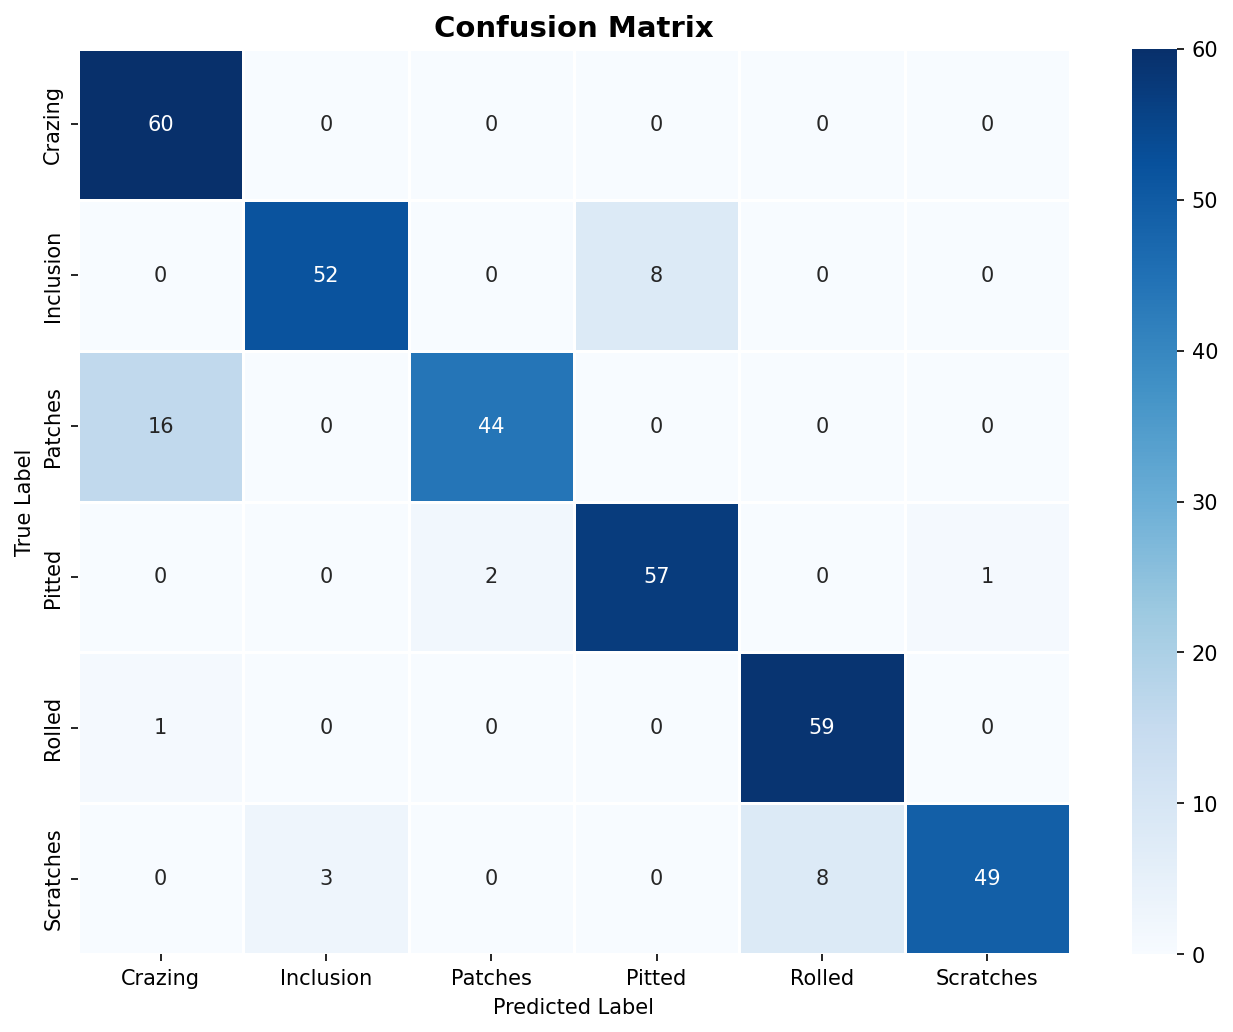
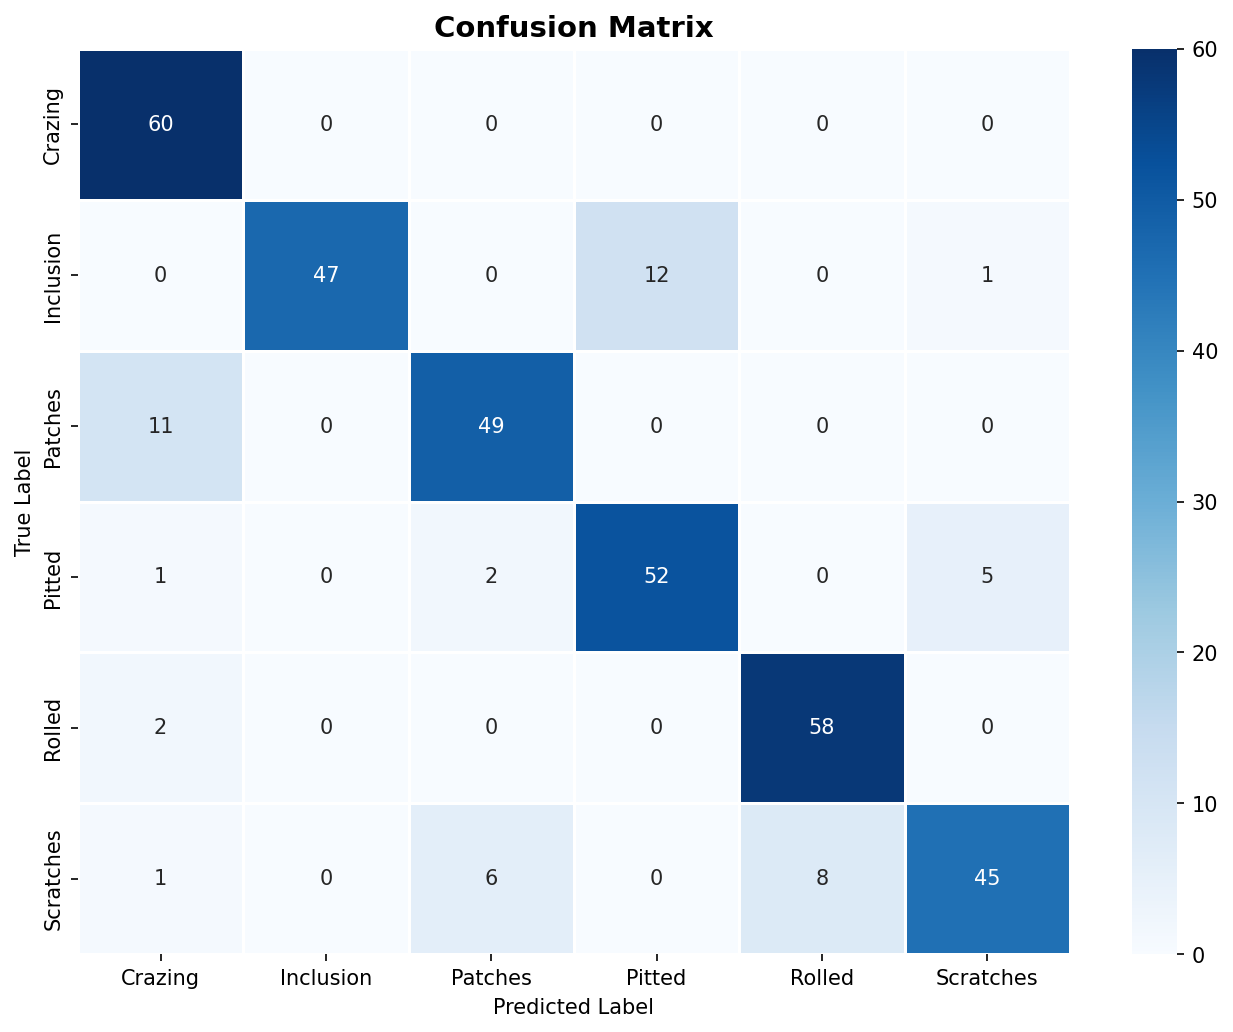
done without gradcam

diff --git a/main.py b/main.py
@@ -1,7 +1,5 @@
 # ================================================================
 #  SURFACE DEFECT DETECTION USING CNN + GRAD-CAM
-#  VSCode Version — No Google Colab needed
-#  Run: python surface_defect_detection.py
 # ================================================================
 
 import os
@@ -28,7 +26,7 @@ from PIL import Image
 
 
 # ================================================================
-# SECTION 1 — PATHS  (no ZIP needed, folders already extracted)
+# SECTION 1 — PATHS  
 # ================================================================
 
 BASE_DIR     = os.path.dirname(os.path.abspath(__file__))   # same folder as this .py file
@@ -67,8 +65,8 @@ IMG_WIDTH    = 128
 IMG_HEIGHT   = 128
 BATCH_SIZE   = 32
 
-# The 3 epoch values to compare (answers teacher's question)
-EPOCH_VARIANTS = [100, 300, 500]
+# The 3 epoch values to compa5e 
+EPOCH_VARIANTS = [30, 70, 70]
 
 
 # ================================================================
@@ -138,25 +136,25 @@ def build_model(num_classes, dropout_rate=0.5):
                input_shape=(IMG_WIDTH, IMG_HEIGHT, 3)),
         BatchNormalization(),
         MaxPooling2D(2, 2),
-        Dropout(0.1),                                 # drop 10% feature maps
+        #Dropout(0.1),                                 # drop 10% feature maps
 
         # ── Block 2 ──────────────────────────────────────────
         Conv2D(64, (3, 3), activation='relu', padding='same',
                kernel_regularizer=l2(1e-4)),
         BatchNormalization(),
         MaxPooling2D(2, 2),
-        Dropout(0.2),                                 # drop 20% feature maps
+        #Dropout(0.2),                                 # drop 20% feature maps
 
         # ── Block 3 ──────────────────────────────────────────
         Conv2D(128, (3, 3), activation='relu', padding='same',
                kernel_regularizer=l2(1e-4)),
         BatchNormalization(),
         MaxPooling2D(2, 2),
-        Dropout(0.3),                                 # drop 30% feature maps
+        #Dropout(0.3),                                 # drop 30% feature maps
 
         # ── Classifier head ───────────────────────────────────
         Flatten(),
-        Dropout(0.4),                                 # original dropout kept
+        #Dropout(0.4),                                 # original dropout kept
         Dense(512, activation='relu',
               kernel_regularizer=l2(1e-4)),           # L2 on dense layer
         Dropout(0.3),                                 # NEW: dropout after Dense
@@ -181,11 +179,11 @@ def get_callbacks():
 
 
 # ================================================================
-# SECTION 5 — TRAIN AT 3 EPOCH SETTINGS (100, 300, 500)
+# SECTION 5 — TRAIN AT 3 EPOCH SETTINGS (300, 50, 70)
 # ================================================================
 
 print("=" * 55)
-print("  TRAINING EXPERIMENT: 100 vs 300 vs 500 epochs")
+print("  TRAINING EXPERIMENT: 30 vs 50 vs 70 epochs")
 print("=" * 55)
 
 histories       = {}
